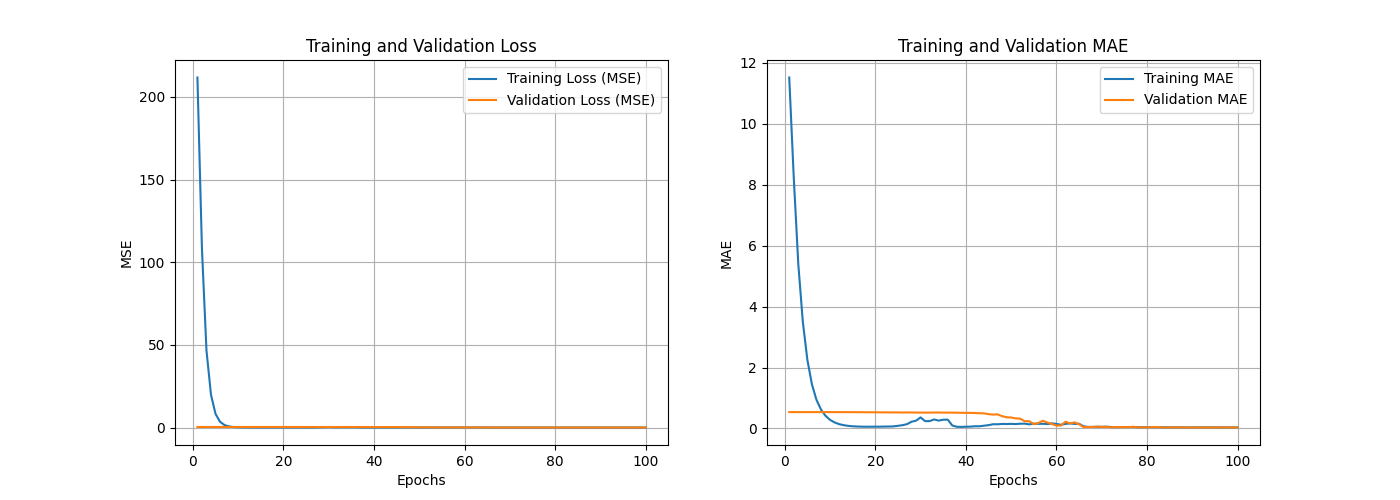
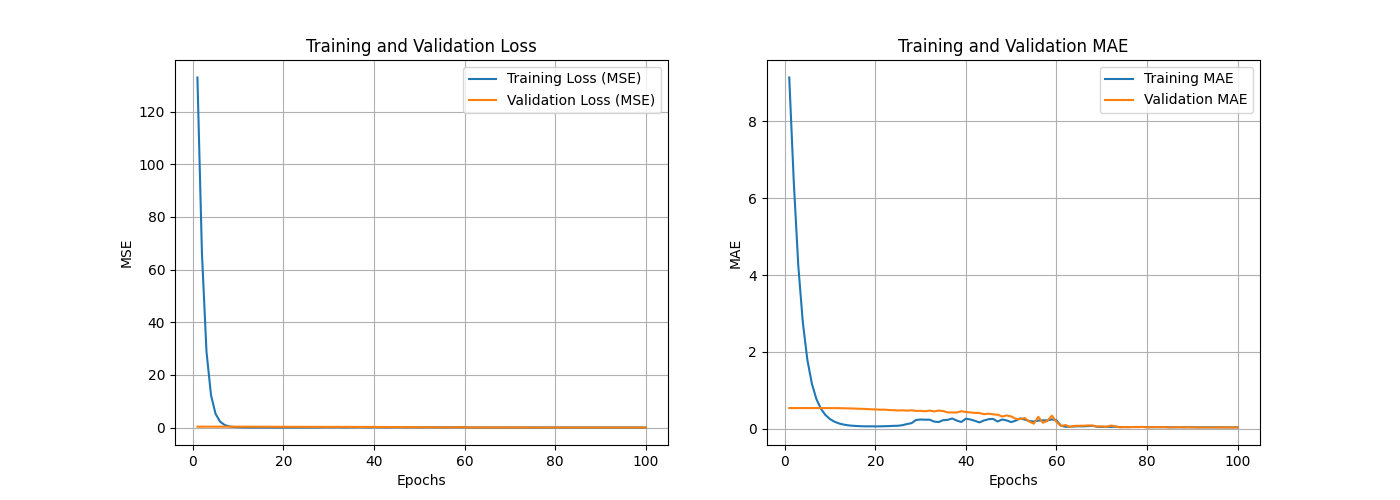
Cleaning Code

diff --git a/src/MobileNetV2/config.py b/src/MobileNetV2/config.py
@@ -1,7 +1,7 @@
 import os
 
 # --- ĐƯỜNG DẪN DỮ LIỆU ---
-RAW_DATA_DIR = "/Users/nguyenbaothach/Study/AI/MobileNet/data/raw" 
+RAW_DATA_DIR = "data/raw" 
 
 PREPROCESSED_DIR = "data/preprocessed"
 TRAIN_XML_PATH = os.path.join(PREPROCESSED_DIR, 'train.xml')
